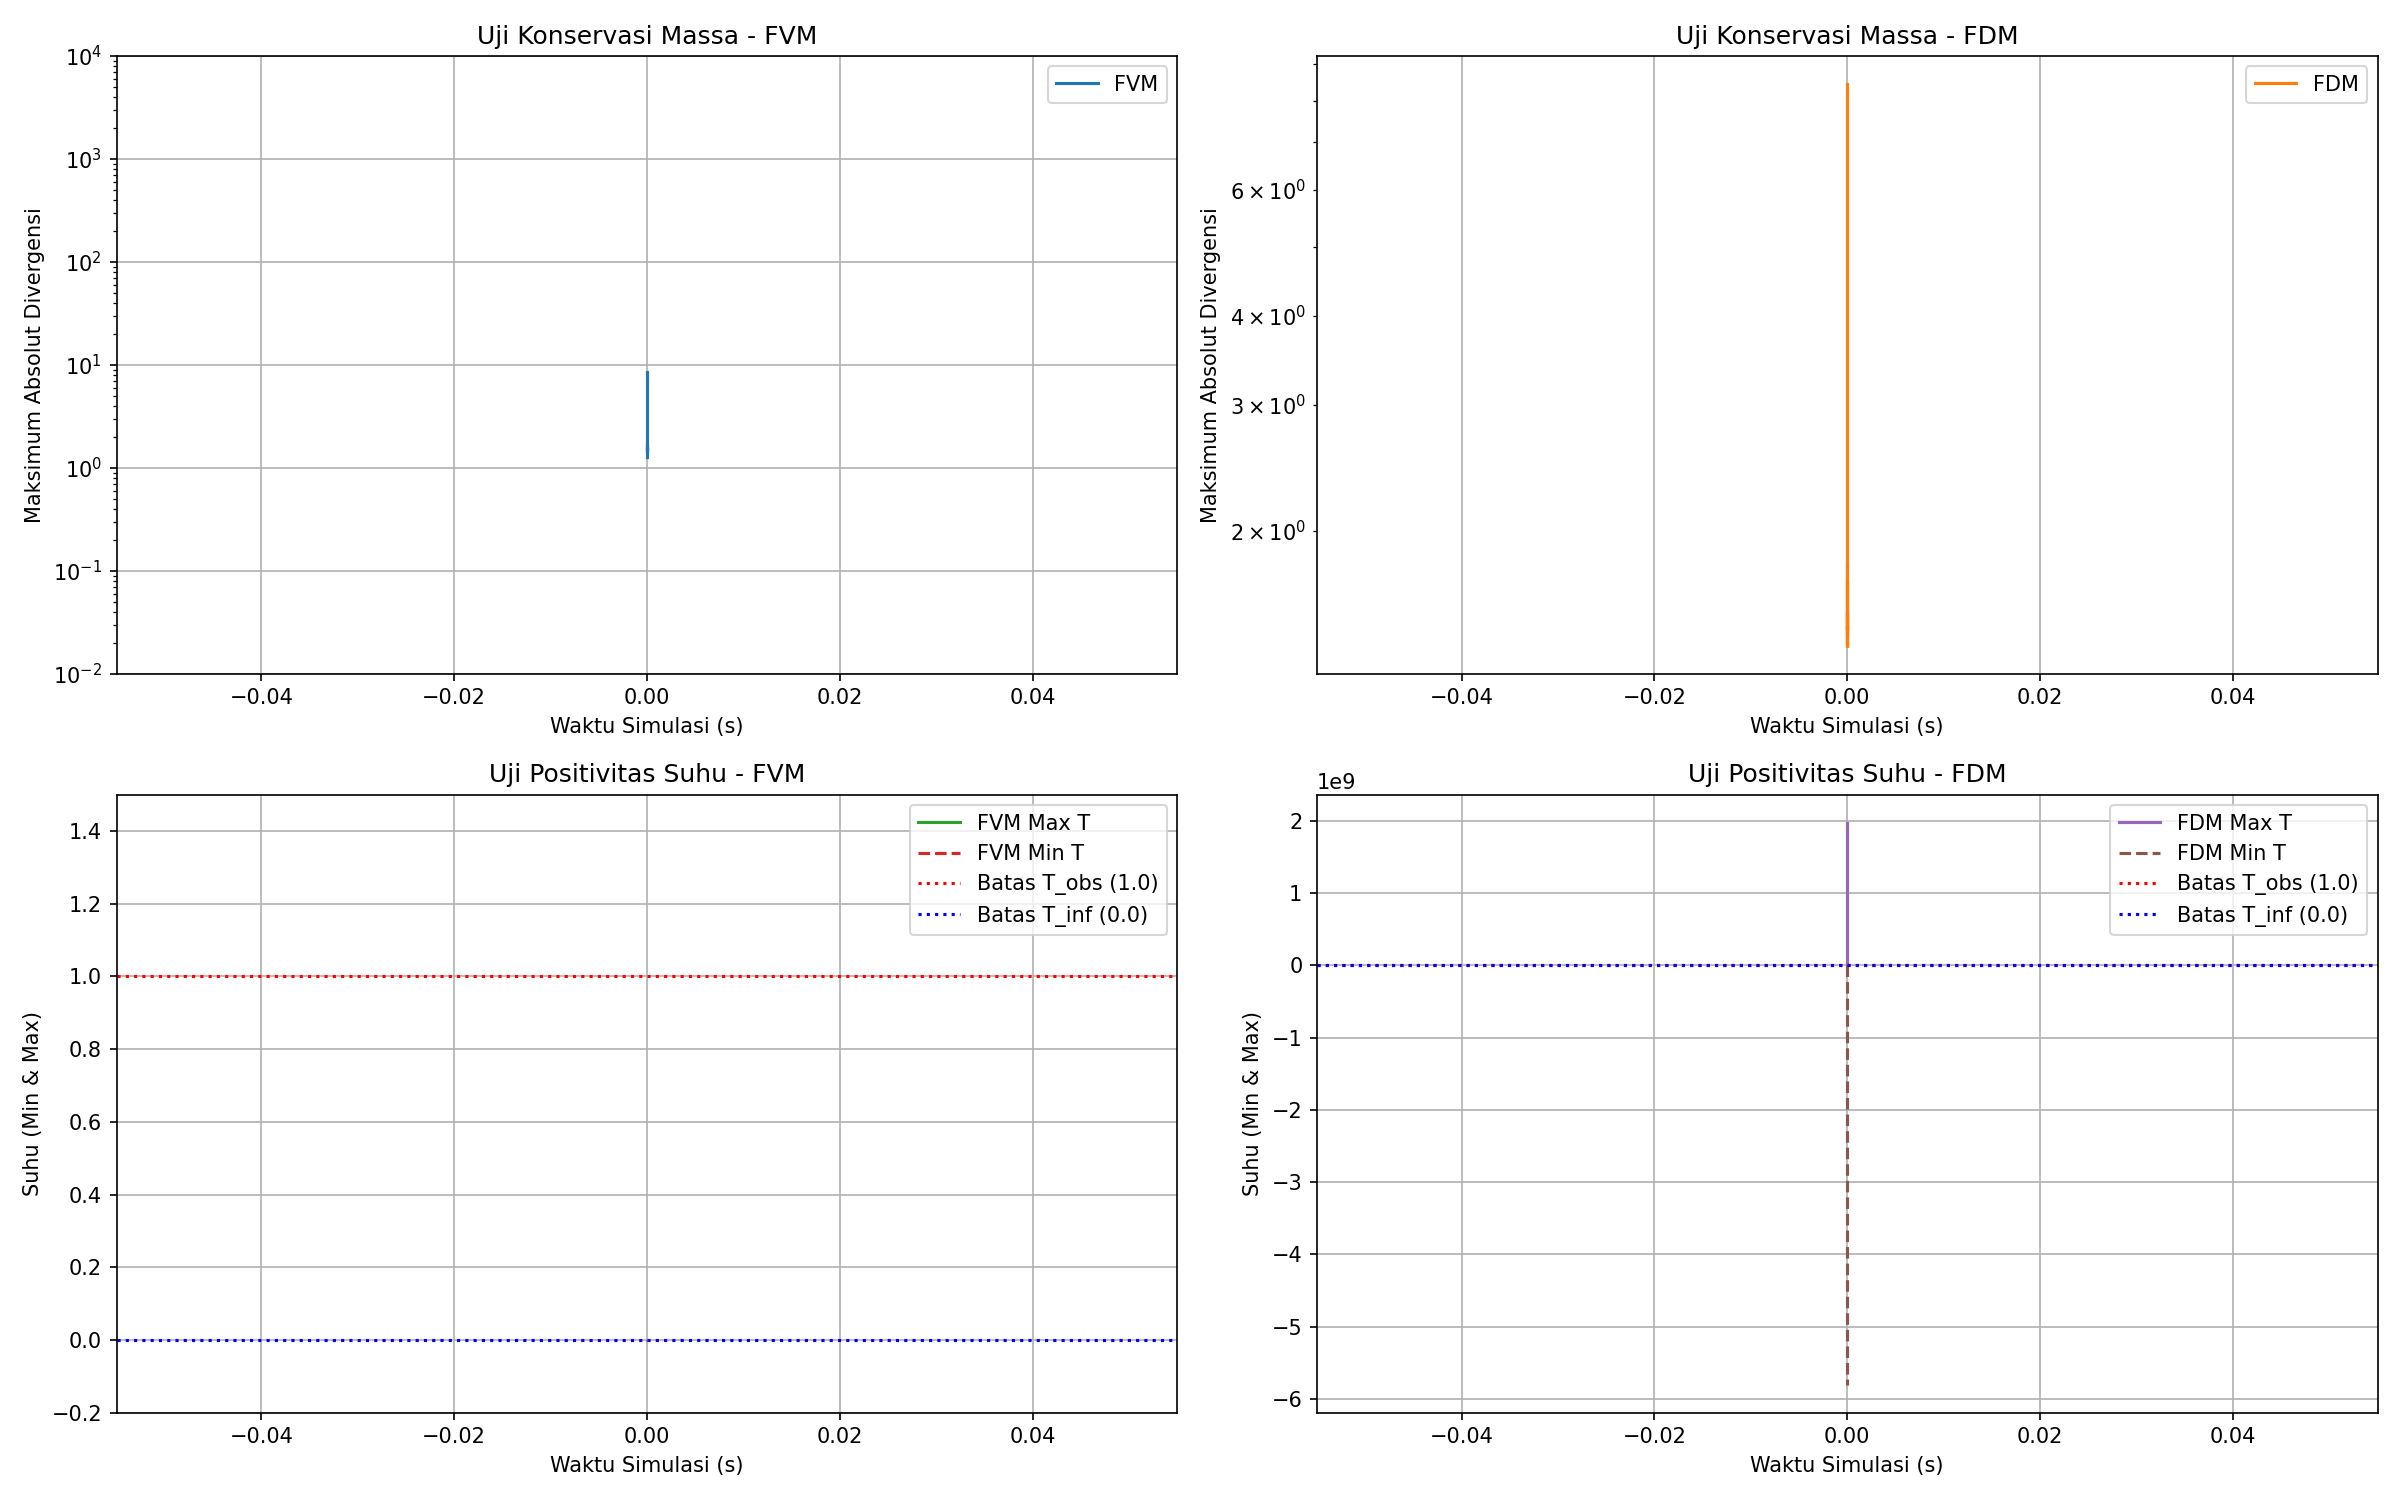
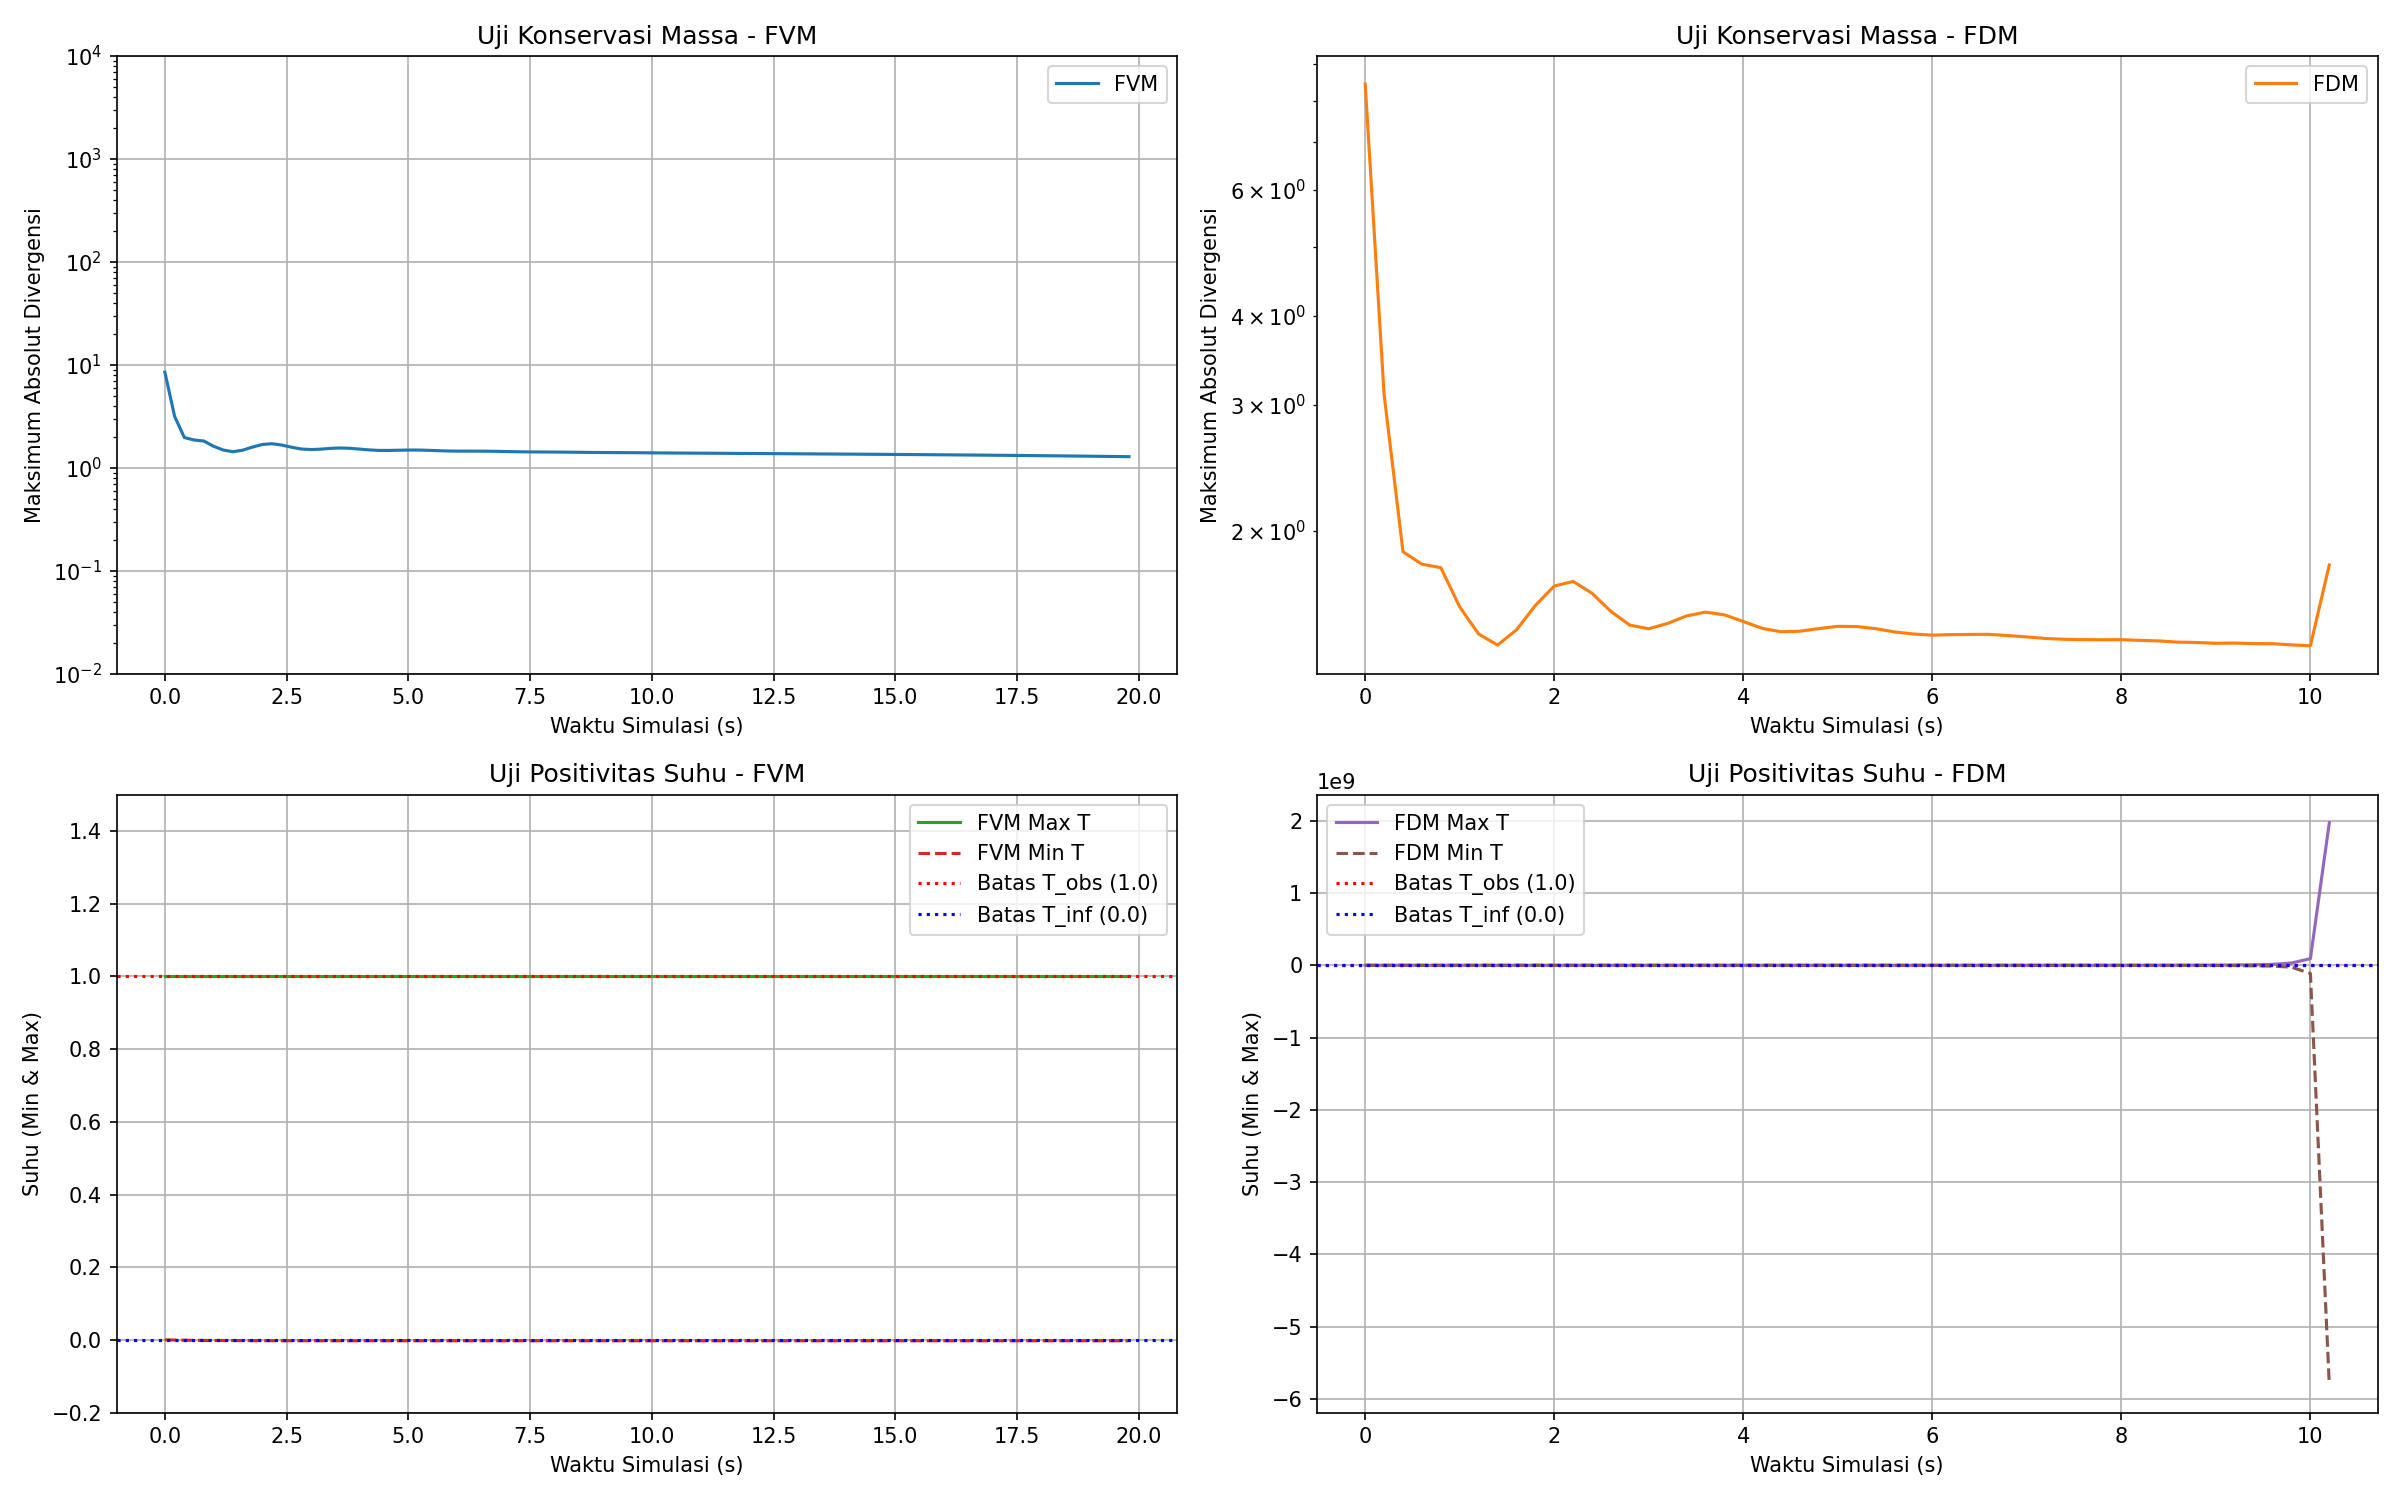
Tests: Fix bug where dt was 0 causing all plot points to stack at t=0

diff --git a/tests/test_conservation.py b/tests/test_conservation.py
@@ -35,7 +35,7 @@ def run_positivity_test(method):
             T_max_history.append(float(np.max(T_field)))
             T_min_history.append(float(np.min(T_field)))
             
-    return max_div_history, T_max_history, T_min_history, cfg.dt
+    return max_div_history, T_max_history, T_min_history, solver.dt
 
 def main():
     print("=" * 60)
